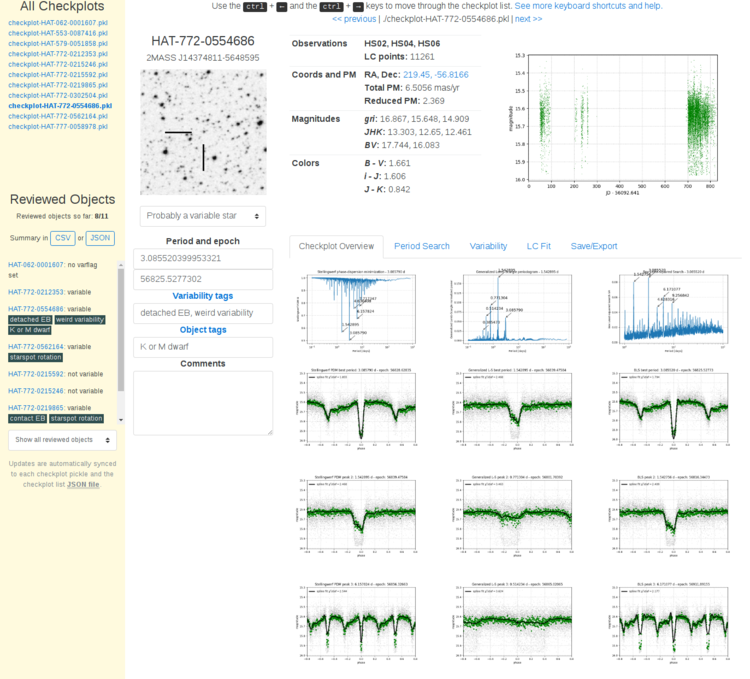
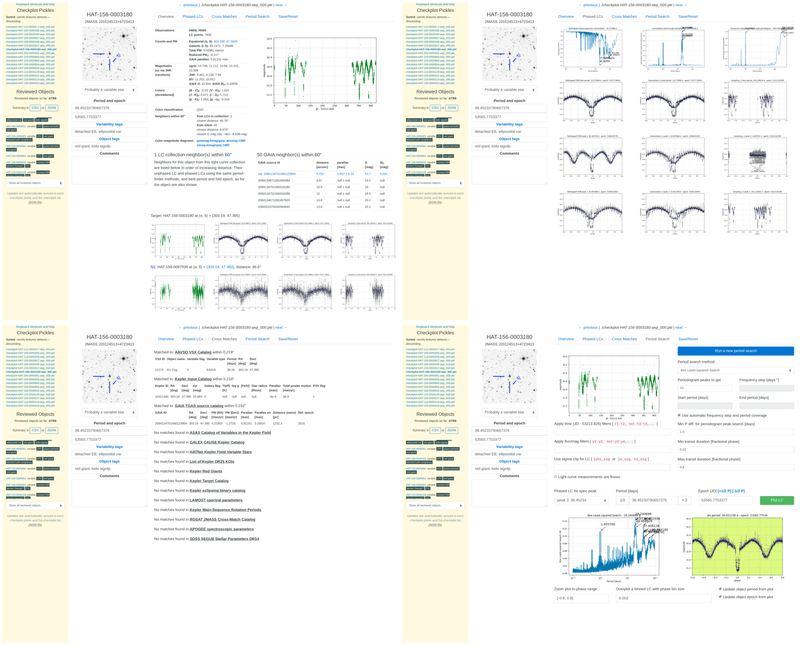
README.md: update for new cps UI

diff --git a/README.md b/README.md
@@ -63,7 +63,7 @@ for your purposes.
   [lightcurves-and-checkplots](https://github.com/waqasbhatti/astrobase-notebooks/blob/master/lightcurves-and-checkplots.ipynb)
   Jupyter notebook details how to do this and goes through a full example.
 
-  ![Checkplot Server](astrobase/data/checkplotserver-th.png?raw=true)
+  ![Checkplot Server](astrobase/data/checkplotserver.png?raw=true)
 
   PNG images: Alternatively, if you want to simply glance through lots of
   checkplots (e.g. for an initial look at a collection of light curves), there's
